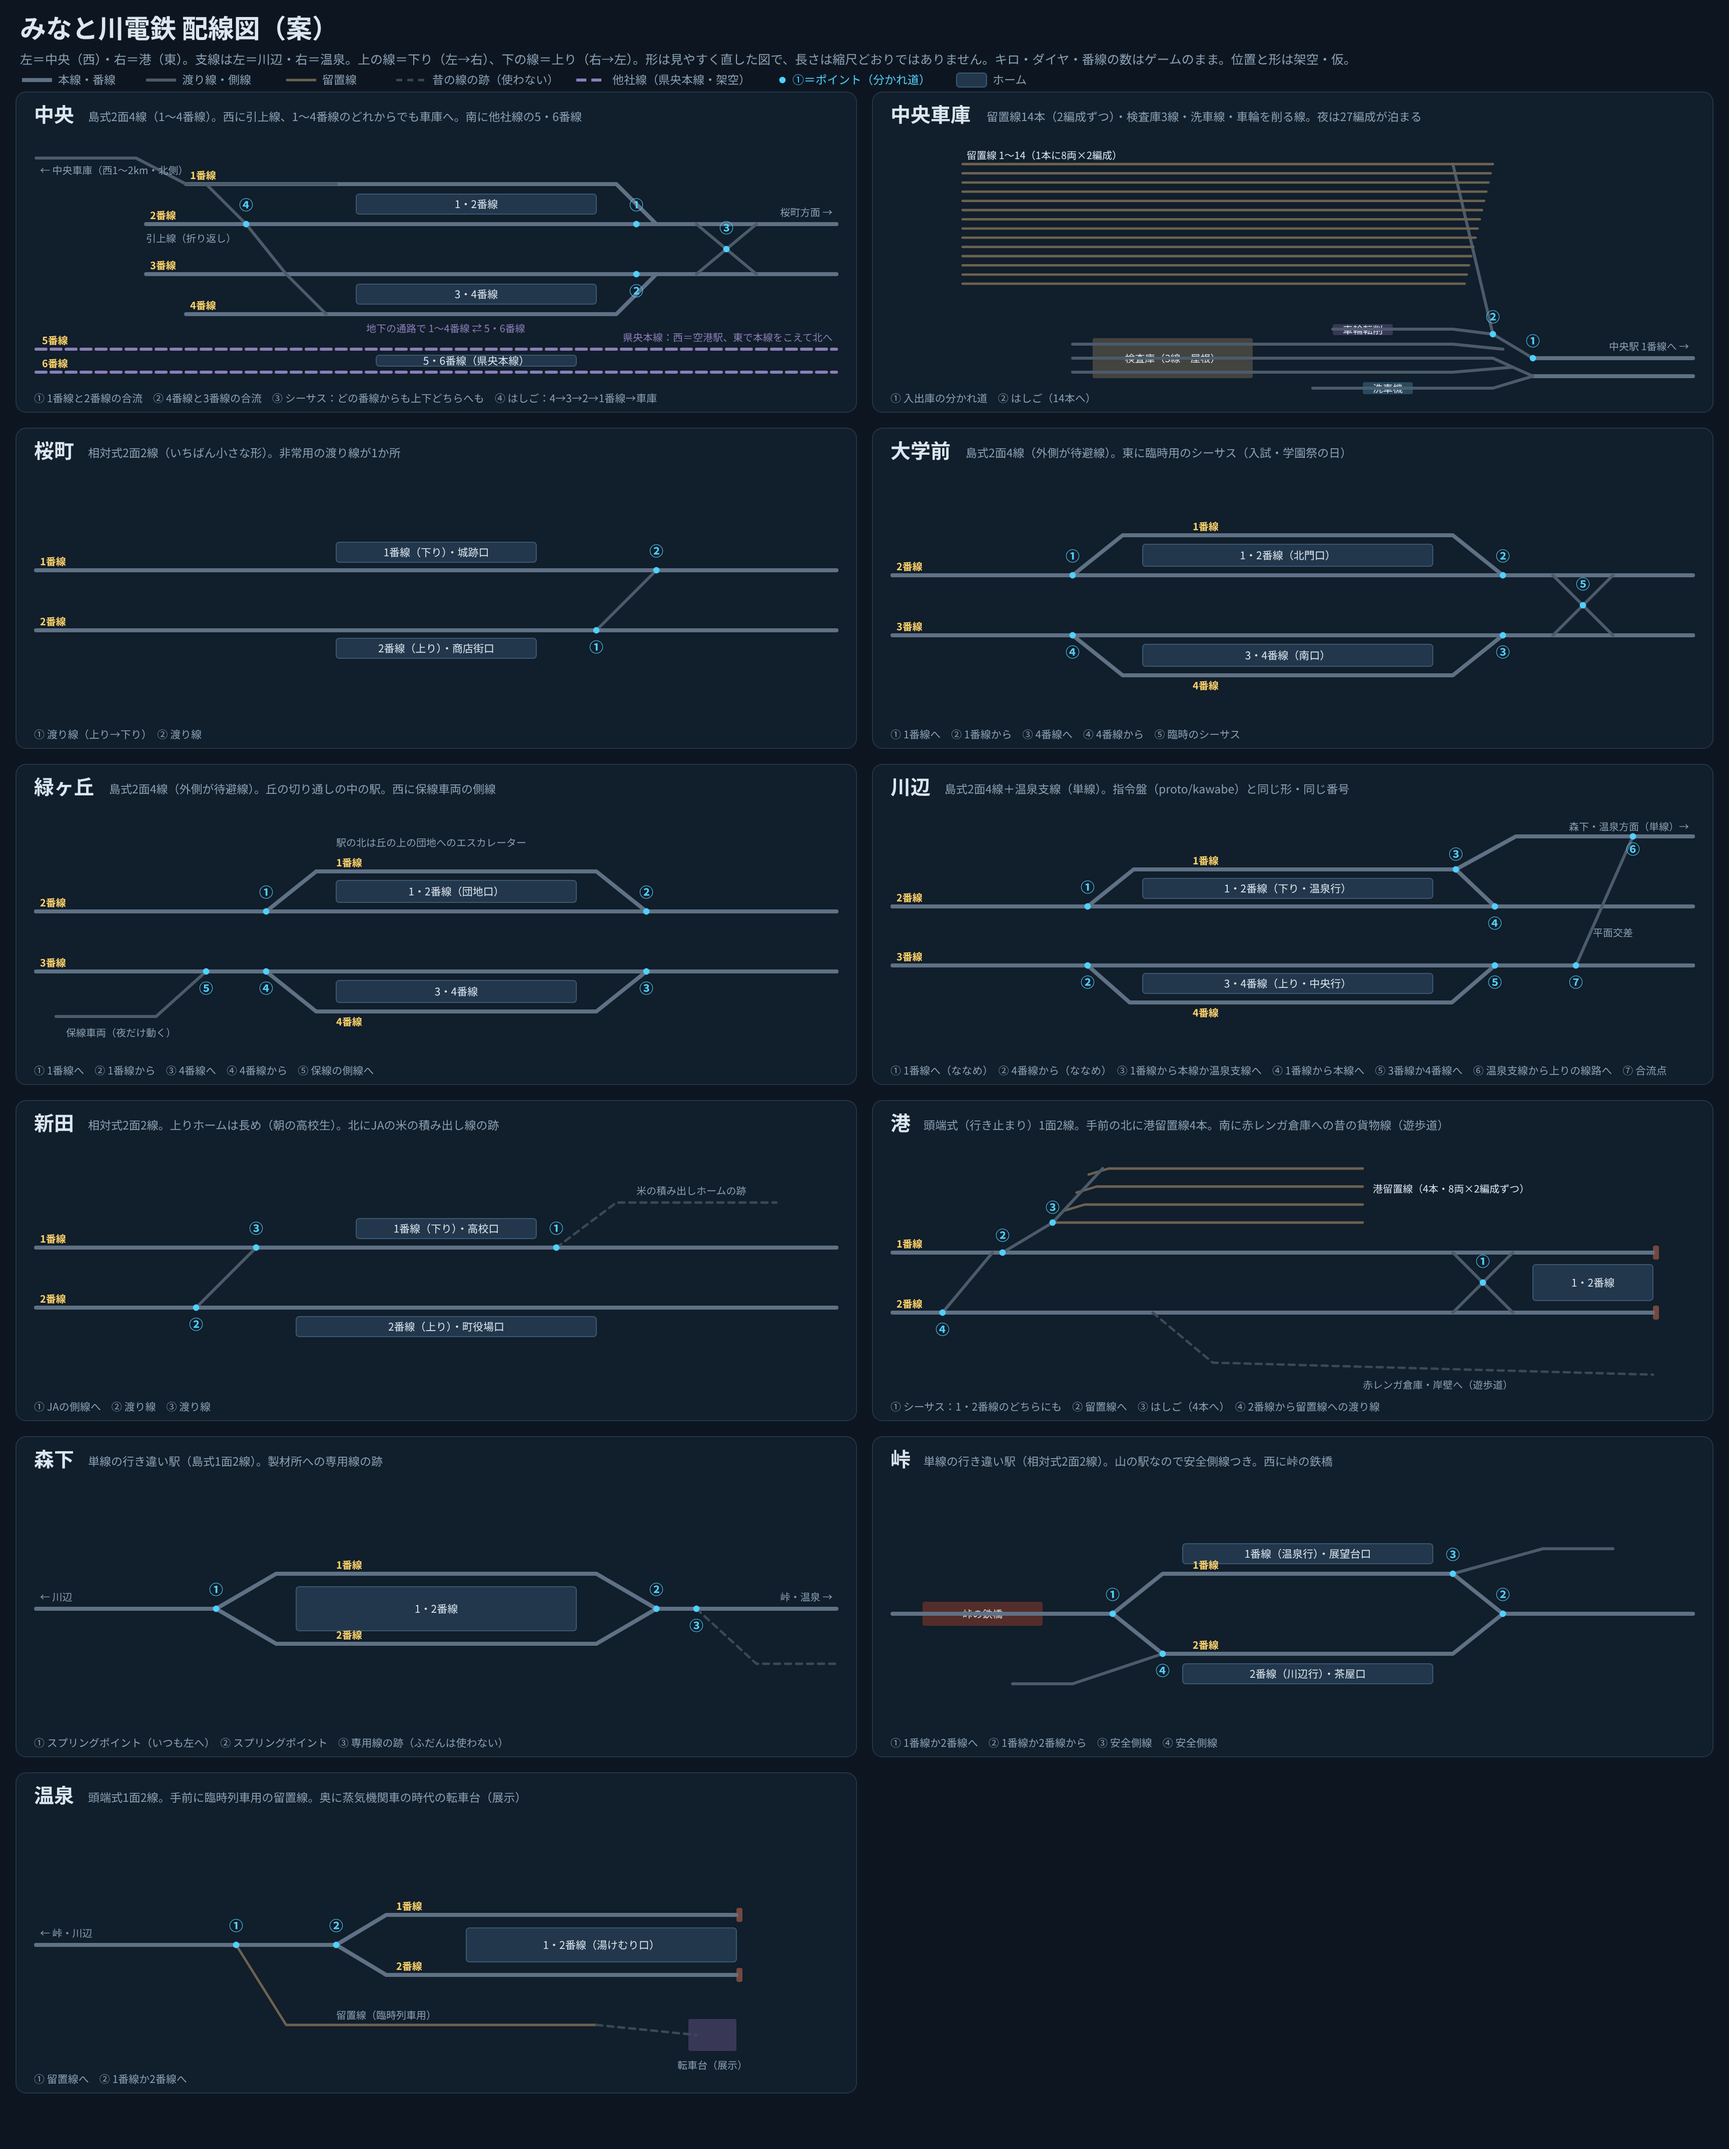
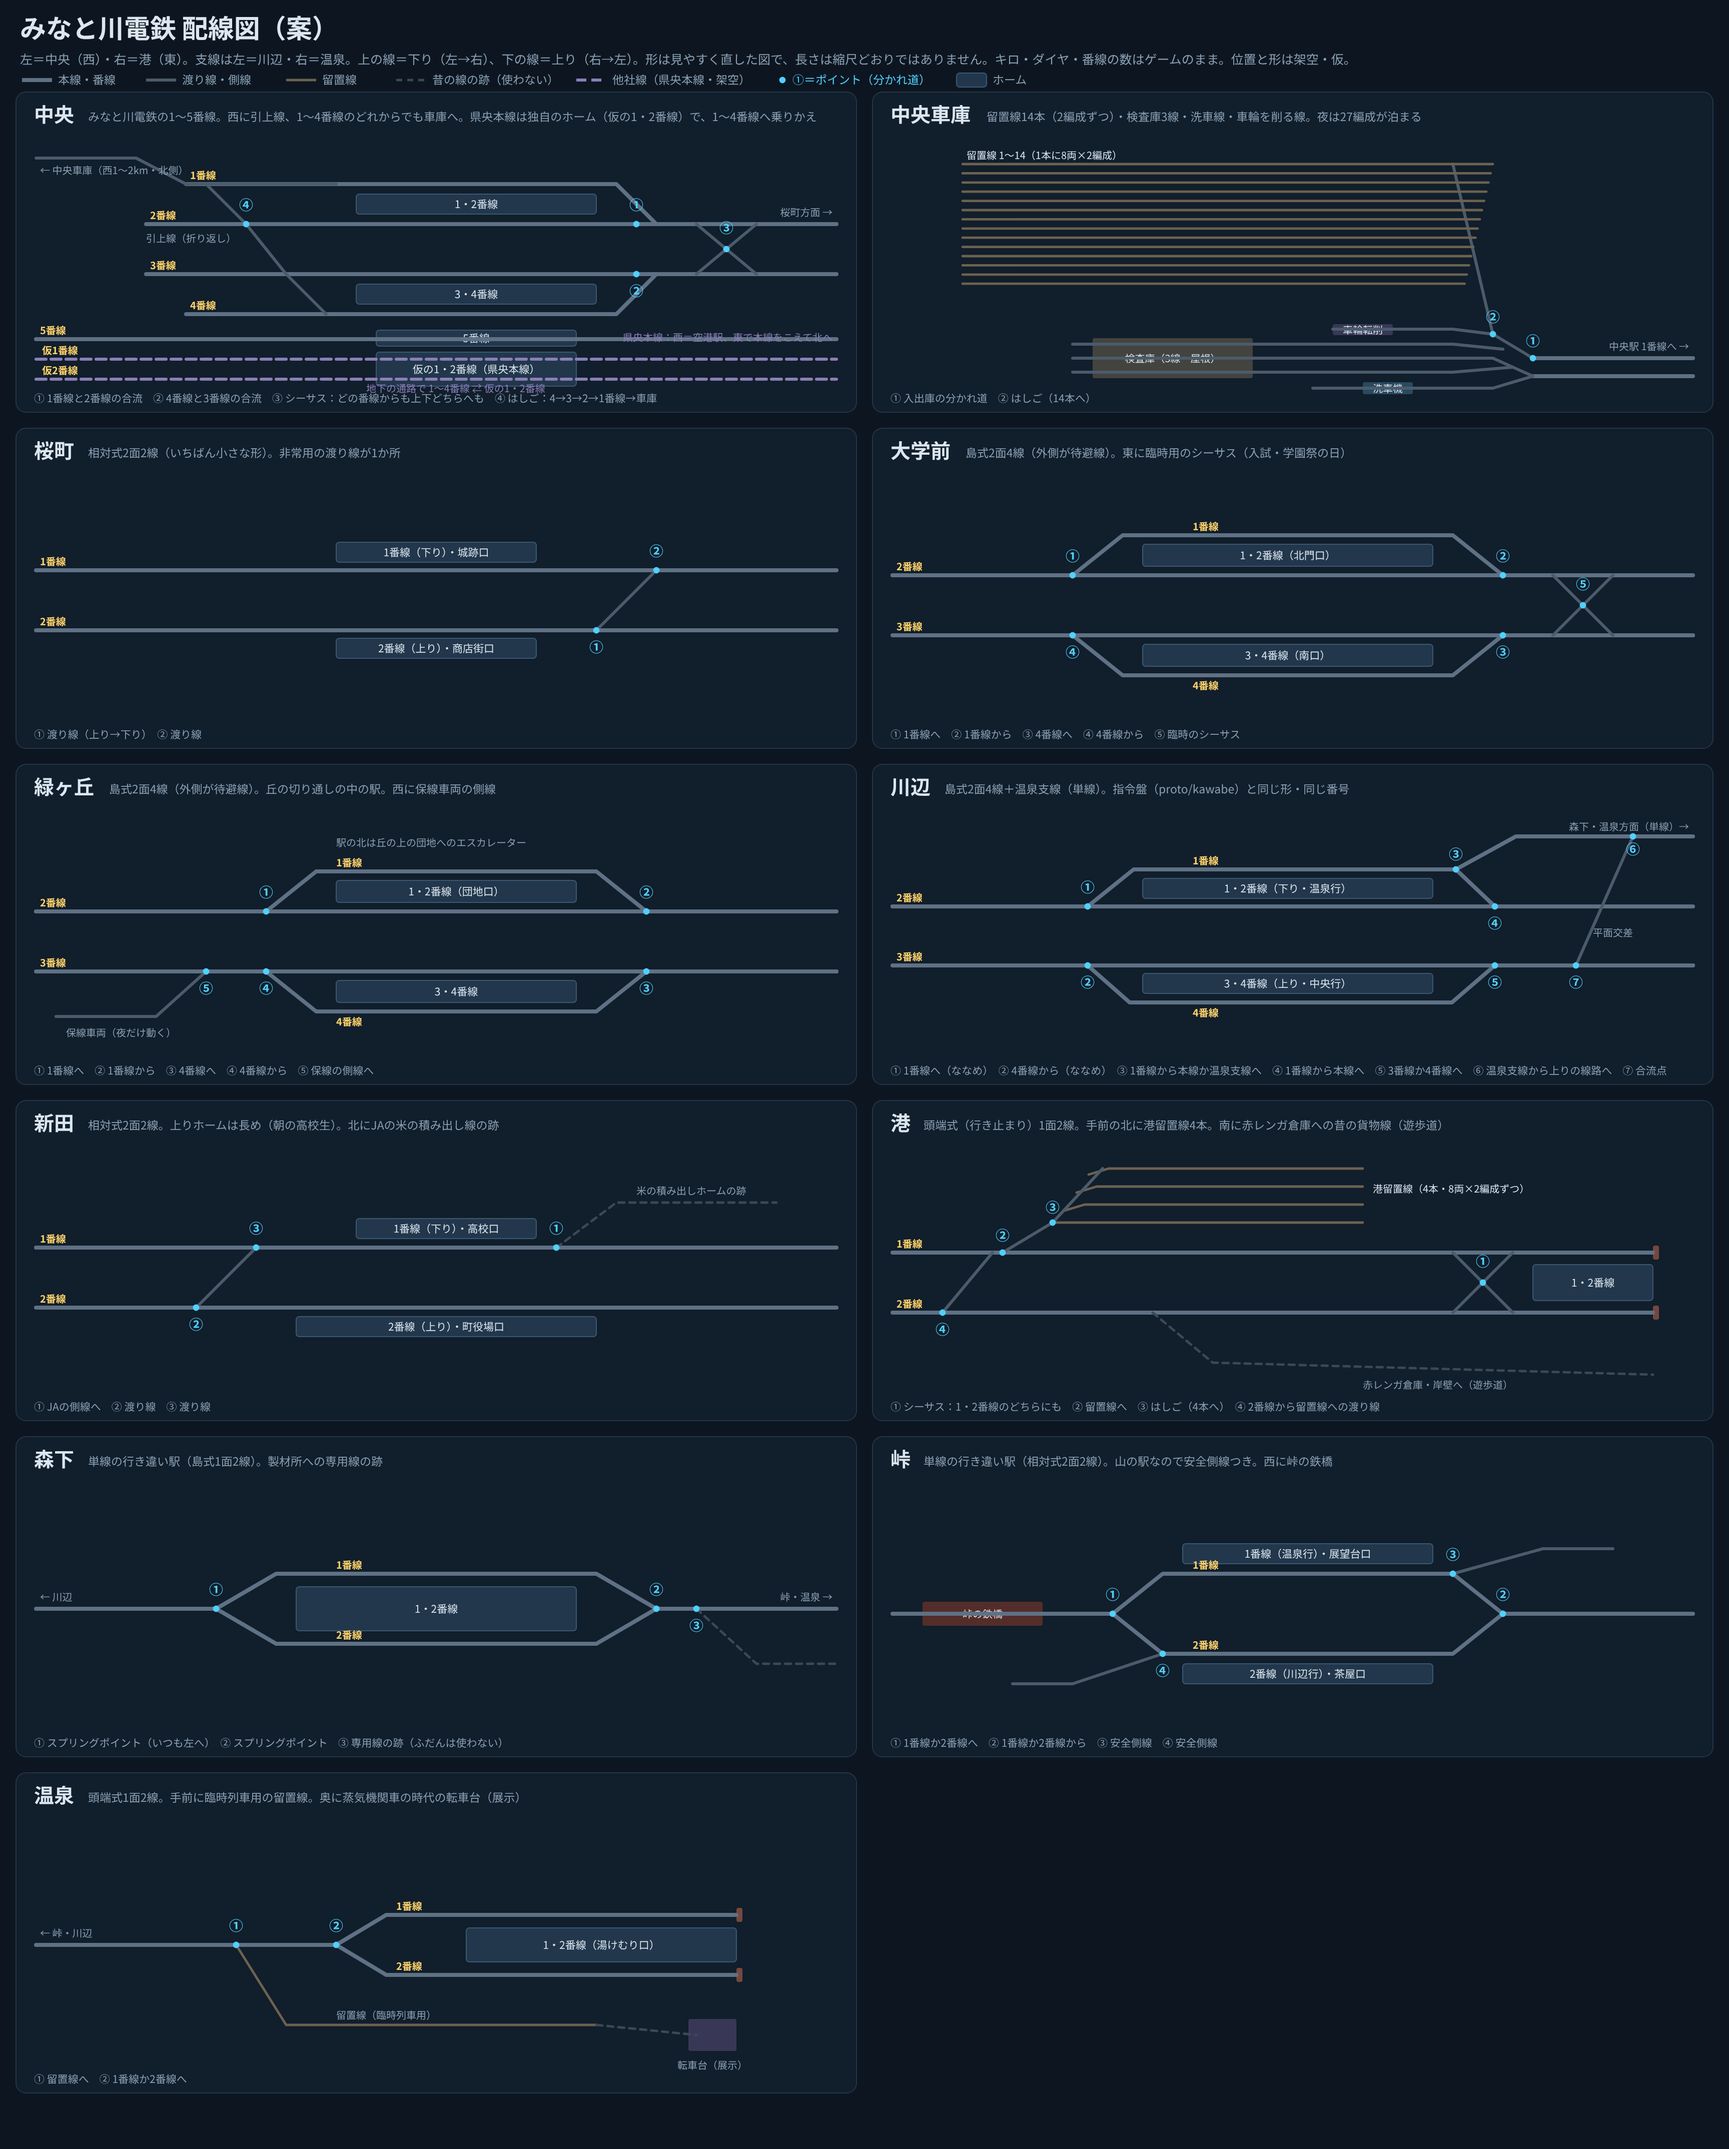
番線の番号を直す：県央本線は独自のホームの仮の1・2番線、みなと川電鉄は1〜5番線
- 指令パネル：県央本線の表示を「仮の1・2番線」に
- 段3（ctc-extra.json）：県央本線の乗りかえ元を仮の1・2番線に（乗りかえ先は中央の1〜4番線のまま）
- 配線図（tools/haisen.py と生成物）：中央に みなと川電鉄5番線と県央本線の仮1・2番線を描く
- docs/ctc-plan.md の連絡線の記述を合わせる

Claude-Session: https://claude.ai/code/session_01Dy2hN9q6ToU1NNApG3tWQP

Changed region(s): [[0.0, 0.1248, 0.5, 0.1872]]

diff --git a/js/ctc-view.js b/js/ctc-view.js
@@ -193,7 +193,7 @@
     ctx.fillStyle = 'rgba(109,98,80,.25)'; ctx.fillRect(xm(-2.25), dTop, xm(-0.8) - xm(-2.25), dBot - dTop);
     for (let k = 0; k < 14; k++) line([[xm(-2.2), dTop + 6 + k * 5.2], [xm(-0.85), dTop + 6 + k * 5.2]], '#6d6250', 1.2);
     line([[xm(-0.85), dTop + 6], [xm(-0.85), dBot - 6]], SD, 2);
-    /* 県央本線（他社線）：西から中央の北側（5・6番線）を通って、北東へ。西のはしで連絡線 */
+    /* 県央本線（他社線）：西から中央の北側（県央本線の仮の1・2番線）を通って、北東へ。西のはしで連絡線 */
     const k5 = M - Y.side - 20, k6 = k5 - 16;
     line([[xm(-ML_()), k6], [xm(0.15), k6], [xm(0.6), k6 - 40], [xm(1.15), 4]], OT, 3, [10, 5]);
     line([[xm(-ML_()), k5], [xm(0.3), k5], [xm(0.75), k5 - 40], [xm(1.3), 4]], OT, 3, [10, 5]);
@@ -238,7 +238,7 @@
     ctx.fillText('中央車庫', xm(-2.25), dTop - 6);
     ctx.fillText('港留置線', xm(ST.P.km - 1.6), M - 86);
     ctx.fillStyle = '#a99be0'; ctx.fillText('県央本線（他社線）← 空港・県の西', xm(-ML_()) + 6, k6 - 8);
-    ctx.fillText('県央本線 6・7番線', xm(-0.25), k6 - 8);
+    ctx.fillText('県央本線 仮の1・2番線', xm(-0.25), k6 - 8);
     ctx.save(); ctx.translate((xm(0.75) + xm(1.3)) / 2 + 22, (k5 - 40 + 4) / 2 + 10); ctx.rotate(Math.atan2(4 - (k5 - 40), xm(1.3) - xm(0.75))); ctx.fillText('→ 北へ（県央北）', 0, 0); ctx.restore();
     ctx.fillStyle = '#c9b27a'; ctx.textAlign = 'right'; ctx.fillText('連絡線（臨時・貨物の直通用）', xm(-0.85), M - Y.side - 6); ctx.textAlign = 'left';
     ctx.fillText('臨港線・港貨物ターミナル', xm(ST.P.km - 0.6), Y.freight + 26);

diff --git a/tools/haisen.py b/tools/haisen.py
@@ -50,8 +50,8 @@ def box(p, x0, y0, x1, y1, txt, color=C_YARD):
 
 PANELS = []
 
-# ---------- 中央（2面4線・西に引上線と車庫への線・南に他社線5・6番線） ----------
-c = P('中央', '島式2面4線（1〜4番線）。西に引上線、1〜4番線のどれからでも車庫へ。南に他社線の5・6番線', 'terminal', 'ST.C plats 4（内）')
+# ---------- 中央（みなと川電鉄1〜5番線・西に引上線と車庫への線・県央本線は独自のホームの仮の1・2番線） ----------
+c = P('中央', 'みなと川電鉄の1〜5番線。西に引上線、1〜4番線のどれからでも車庫へ。県央本線は独自のホーム（仮の1・2番線）で、1〜4番線へ乗りかえ', 'terminal', 'ST.C plats 4（内）')
 tr(c, [(150, 40), (300, 40), (580, 40), (620, 80)], '下りの始発・到着（車庫へ直結）', 1)
 tr(c, [(110, 80), (800, 80)], '下りの始発（本線）', 2)
 tr(c, [(110, 130), (800, 130)], '上りの到着（本線）', 3)
@@ -61,11 +61,13 @@ for (a, b) in [((290, 170), (250, 130)), ((250, 130), (210, 80)), ((210, 80), (1
     tr(c, [a, b], 'はしご（西）', None, 'side')
 tr(c, [(660, 80), (720, 130)], 'シーサスクロッシング', None, 'side')
 tr(c, [(660, 130), (720, 80)], 'シーサスクロッシング', None, 'side')
-tr(c, [(0, 205), (800, 205)], '県央本線（他社線・5番線）', 5, 'other')
-tr(c, [(0, 228), (800, 228)], '県央本線（他社線・6番線）', 6, 'other')
+tr(c, [(0, 195), (800, 195)], 'みなと川電鉄5番線', 5, 'main')
+tr(c, [(0, 215), (800, 215)], '県央本線（他社線・仮の1番線）', '仮1', 'other')
+tr(c, [(0, 235), (800, 235)], '県央本線（他社線・仮の2番線）', '仮2', 'other')
 pf(c, 320, 560, 50, 70, '1・2番線')
 pf(c, 320, 560, 140, 160, '3・4番線')
-pf(c, 340, 540, 211, 222, '5・6番線（県央本線）')
+pf(c, 340, 540, 186, 202, '5番線')
+pf(c, 340, 540, 208, 242, '仮の1・2番線（県央本線）')
 sw(c, 600, 80, '1番線と2番線の合流')
 sw(c, 600, 130, '4番線と3番線の合流', 22)
 sw(c, 690, 105, 'シーサス：どの番線からも上下どちらへも', -16)
@@ -74,7 +76,7 @@ tx(c, 110, 98, '引上線（折り返し）', C_DIM, 10)
 tx(c, 4, 30, '← 中央車庫（西1〜2km・北側）', C_DIM, 10)
 tx(c, 796, 72, '桜町方面 →', C_DIM, 10, 'end')
 tx(c, 796, 197, '県央本線：西＝空港駅、東で本線をこえて北へ', C_OTHER, 10, 'end')
-tx(c, 330, 188, '地下の通路で 1〜4番線 ⇄ 5・6番線', C_OTHER, 10)
+tx(c, 330, 248, '地下の通路で 1〜4番線 ⇄ 仮の1・2番線', C_OTHER, 10)
 PANELS.append(c)
 
 # ---------- 中央車庫 ----------

diff --git a/docs/ctc-plan.md b/docs/ctc-plan.md
@@ -64,7 +64,7 @@
 - 判断の場面では自動で1倍速に。用語は押すと短い説明。
 
 ## 臨時列車と貨物列車（他社線からの直通）
-**共通**：中央駅の西に、県央本線（5・6番線）とみなと川電鉄をつなぐ**連絡線**を足す。中央で乗務員を交代。電気は両方とも直流1500V（仮）。他社の列車が走ると**線路使用料**が入る（橋・数字は仮）。
+**共通**：中央駅の西に、県央本線（独自のホームの仮の1・2番線）とみなと川電鉄をつなぐ**連絡線**を足す。中央で乗務員を交代。電気は両方とも直流1500V（仮）。他社の列車が走ると**線路使用料**が入る（橋・数字は仮）。
 
 **臨時列車（イベント列車）**
 - 道すじ：県央本線（中央より西）→ 中央 → 港で折り返し、または 川辺から支線 → 温泉で折り返し。
